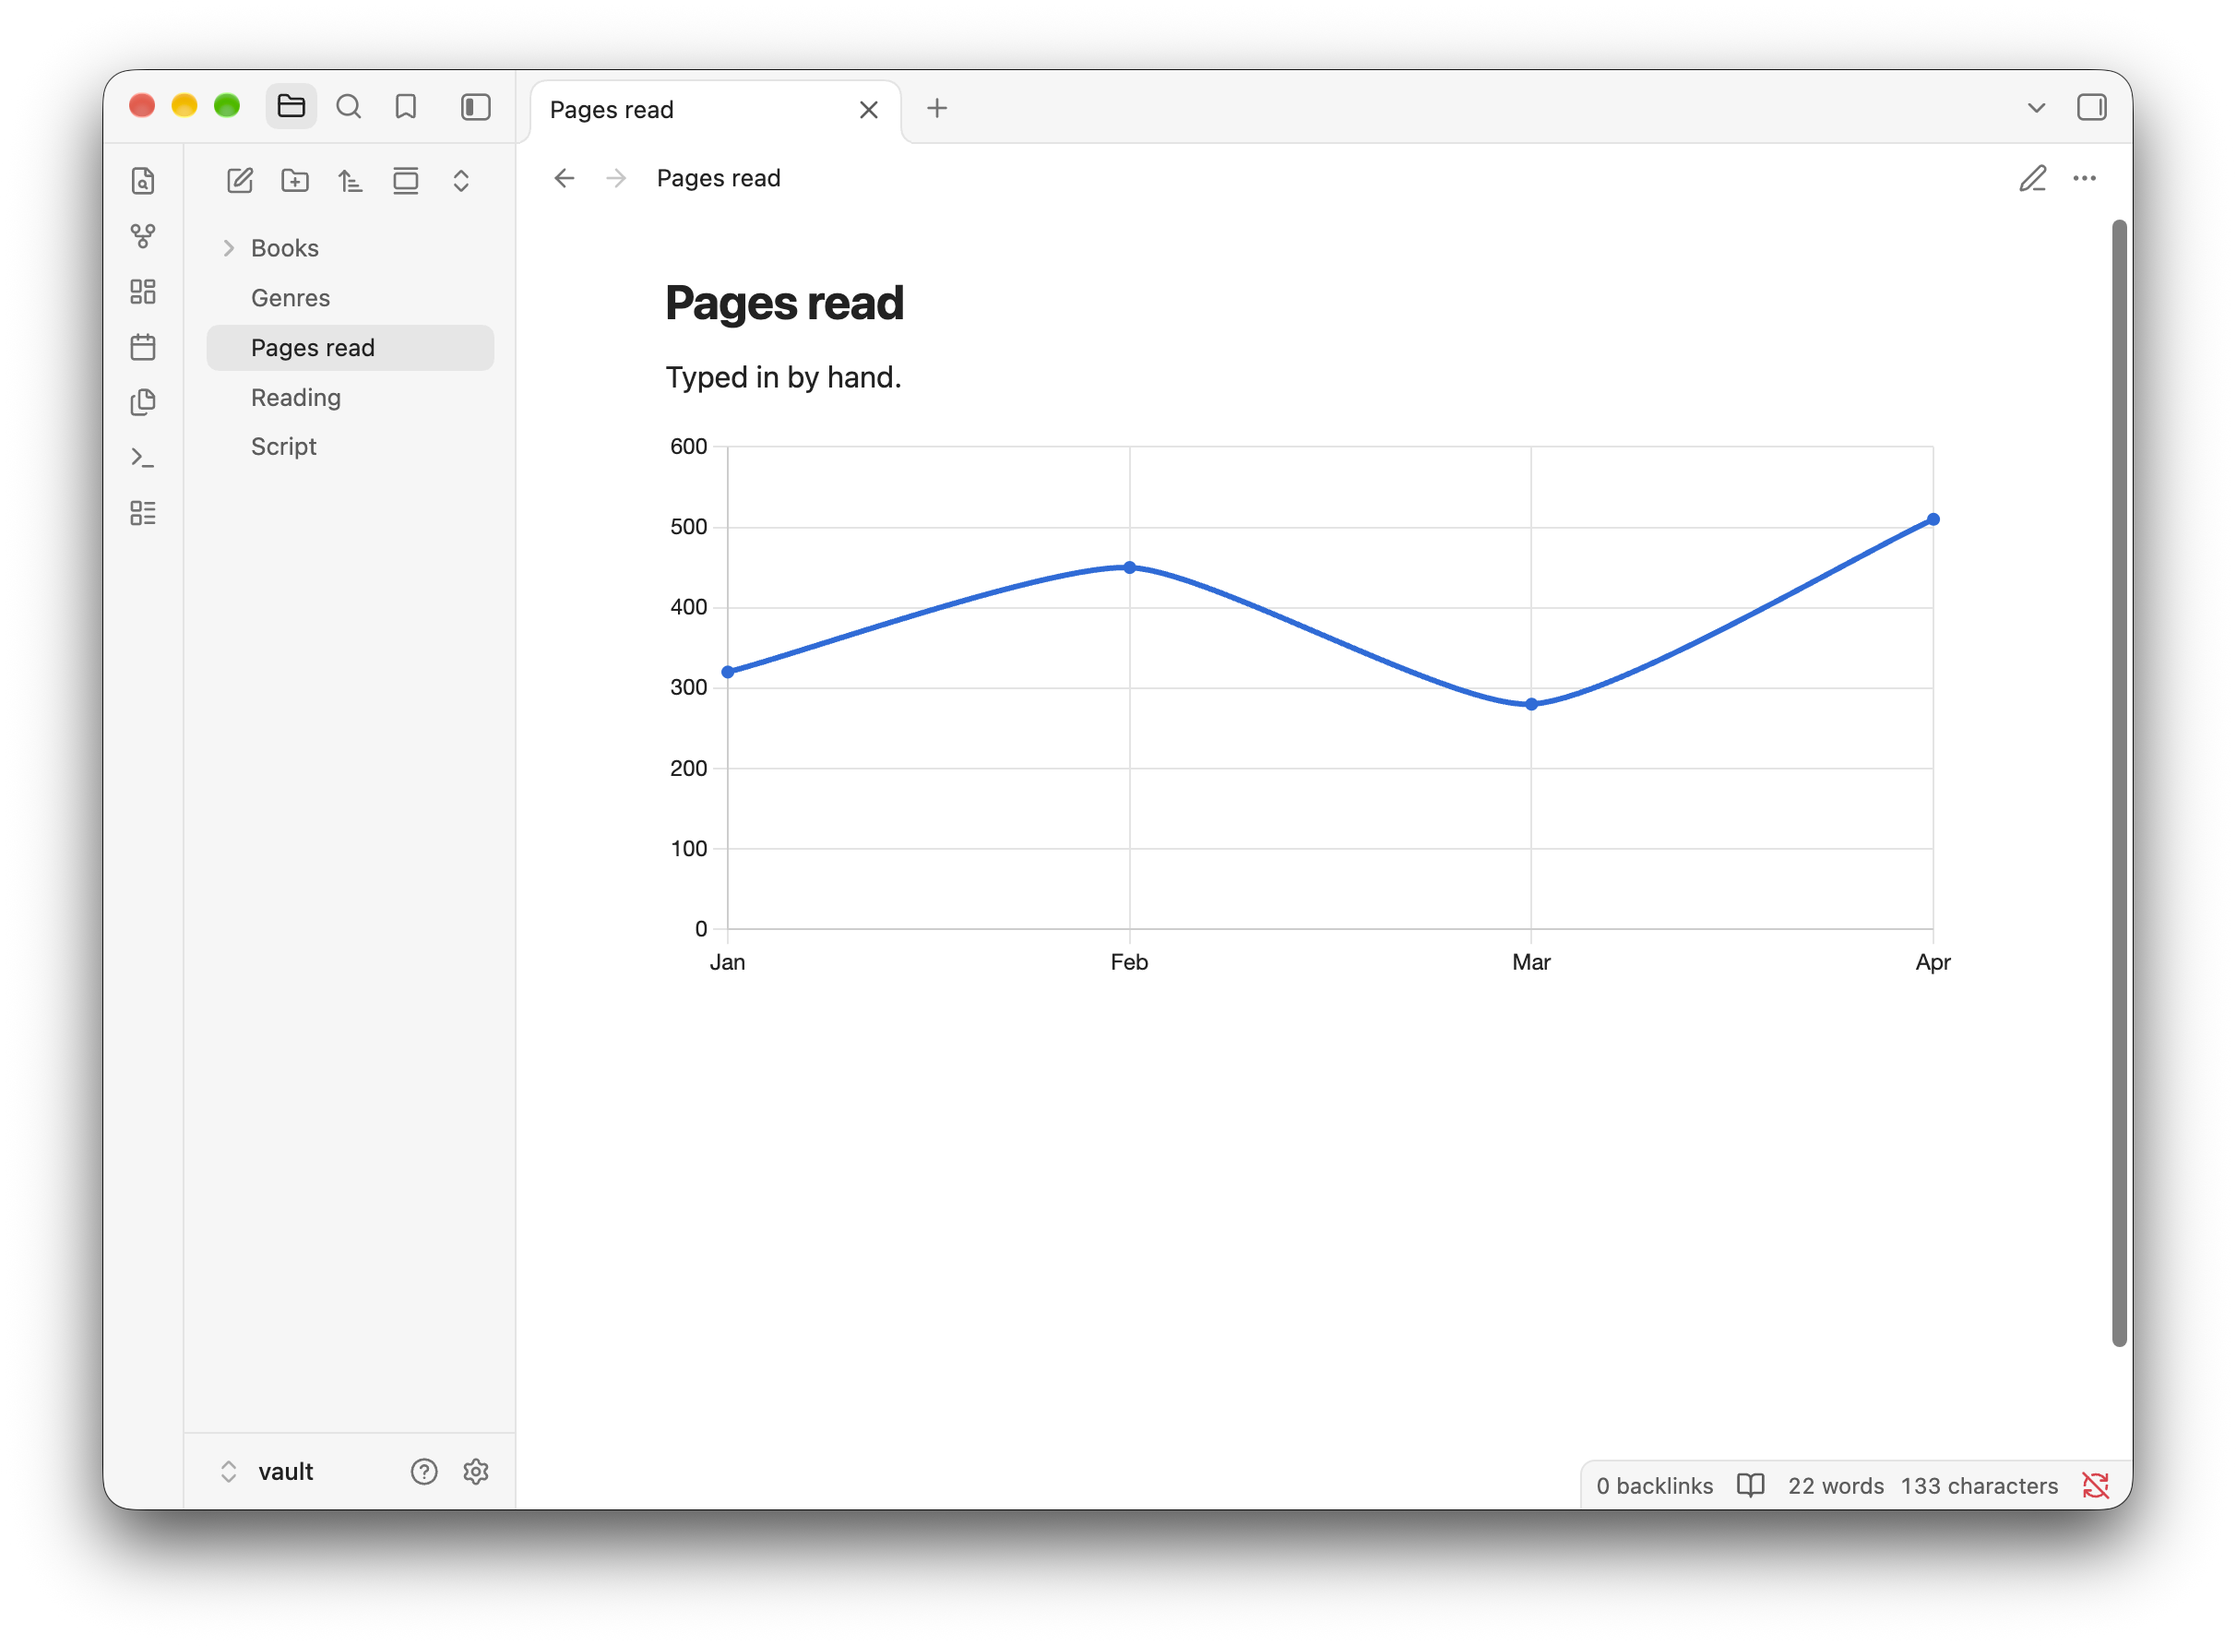
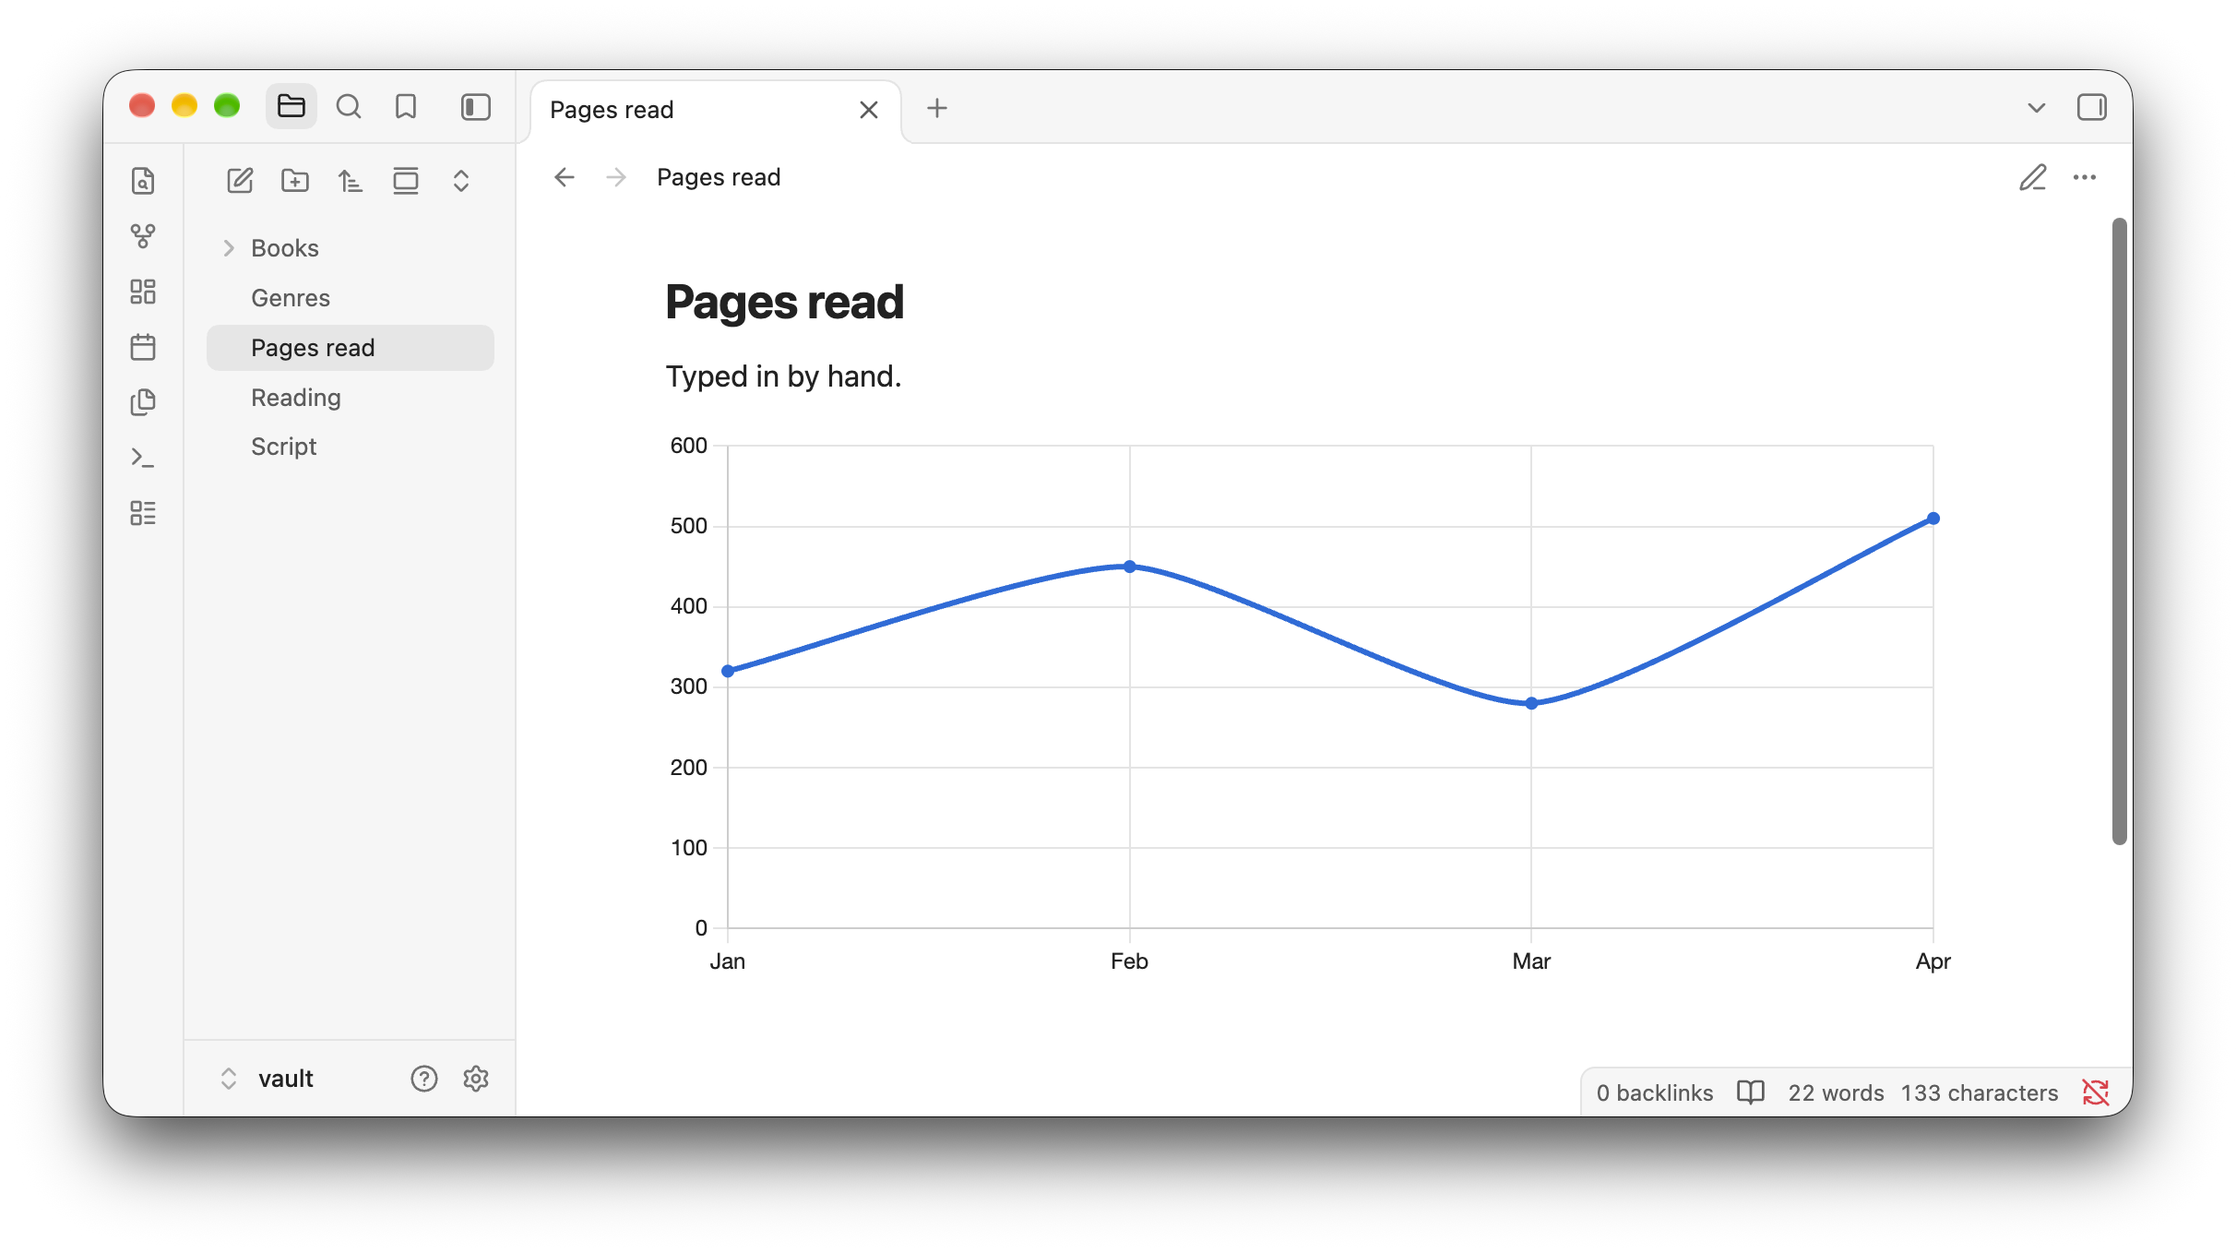
docs: drop the README disclaimer, fit short screenshots to their chart
Refs bjorn/obsidian-chartwork#7

diff --git a/README.md b/README.md
@@ -34,7 +34,3 @@ Obsidian 1.10 or later. Chart.js 4 is bundled, so there is nothing else to insta
 
 - **Vault, read-only.** Chartwork sees only the data a Bases view, `chart` block or script hands it, and writes nothing. A Bases view's options are saved into its `.base` file by Bases itself.
 - **No network.** The plugin makes no outbound requests.
-
-## Disclaimer
-
-Independent community plugin, not affiliated with Chart.js or the Charts plugin.
